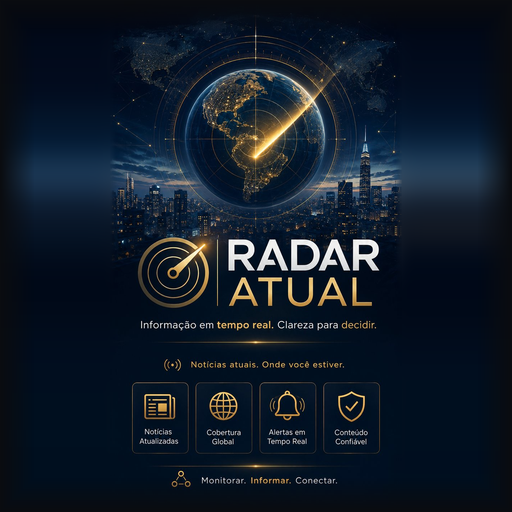
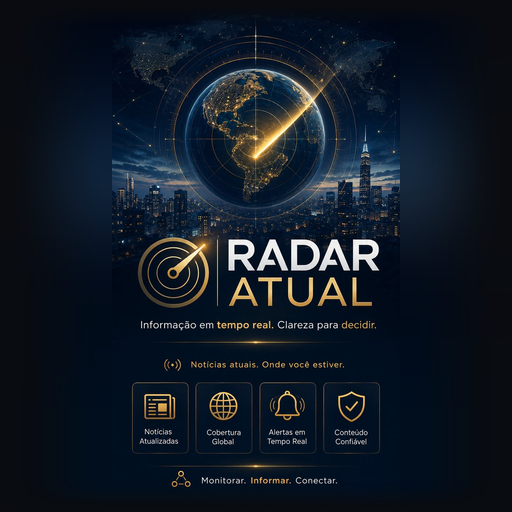
Capa de abertura: suaviza a faixa clara das laterais do icone do splash (degrade vertical borrado que esmaece ate o fundo do app); SW v242

Changed region(s): [[0.7812, 0.25, 1.0, 0.4062], [0.0312, 0.25, 0.2188, 0.4062]]

diff --git a/public/index.html b/public/index.html
@@ -13,7 +13,7 @@
 <link rel="preconnect" href="https://fonts.googleapis.com"><link rel="preconnect" href="https://fonts.gstatic.com" crossorigin>
 <link href="https://fonts.googleapis.com/css2?family=Lora:ital,wght@0,400;0,500;0,600;1,400&family=Playfair+Display:wght@600;700;800&display=swap" rel="stylesheet">
 <link rel="stylesheet" href="/assets/radar.css?v=210">
-<link rel="preload" as="script" href="/assets/app.js?v=241">
+<link rel="preload" as="script" href="/assets/app.js?v=242">
 <script>
 /* ── A PELE DA HOME (bege ou azul) ──────────────────────────────────────────
    Isto roda AQUI NO <head>, antes de o navegador pintar qualquer coisa.
@@ -1008,7 +1008,7 @@
   </div>
 </div>
 
-<script src="/assets/app.js?v=241"></script>
+<script src="/assets/app.js?v=242"></script>
 
 <!-- REF SHEET -->
 <div id="ref-overlay" onclick="fecharRefSheet()" style="display:none;position:fixed;inset:0;z-index:900;background:rgba(0,0,0,.45)"></div>
@@ -2007,6 +2007,6 @@ function compartilharApp(nome){
 </div>
 
 <script src="/assets/lupa.js?v=208"></script>
-<script src="/_uso.js?v=241" defer></script>
+<script src="/_uso.js?v=242" defer></script>
 </body>
 </html>

diff --git a/public/sw.js b/public/sw.js
@@ -1,4 +1,4 @@
-const V='radar-v241';               // cache do SHELL — troca a cada versão do app
+const V='radar-v242';               // cache do SHELL — troca a cada versão do app
 const PACOTE='radar-pacote-v1';     // pacote que o irmão baixou de propósito — NUNCA apagado ao subir versão
 // ⚠ 27/09/2026 — POR QUE ESTE CACHE EXISTE (bug real: "clico na mensagem e não abre"):
 // o `activate` apagava o cache da versão anterior a CADA subida de versão. Como as
